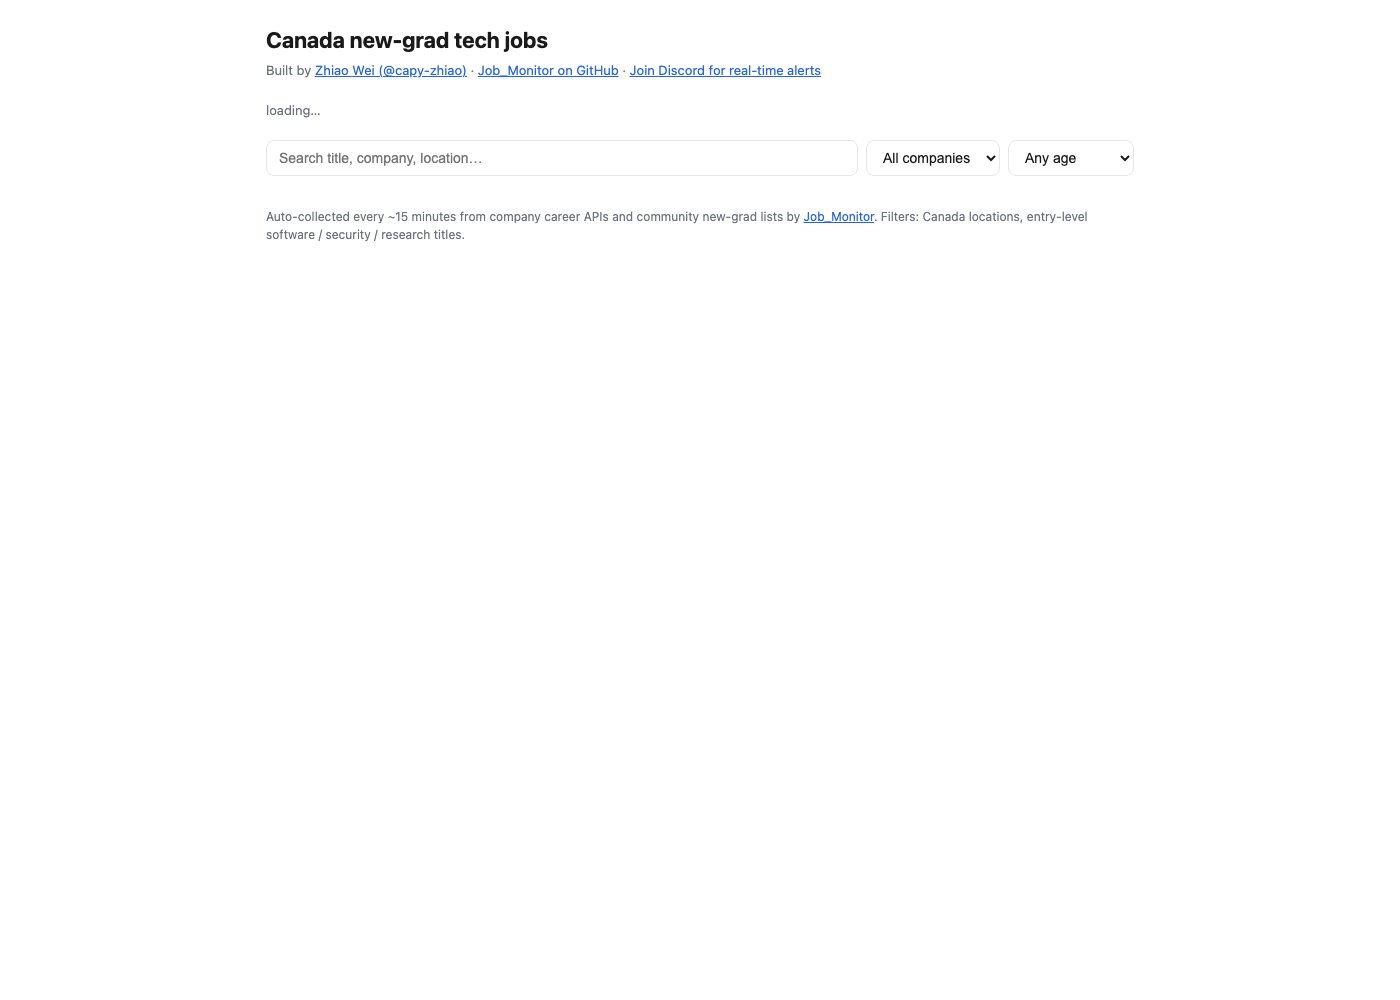
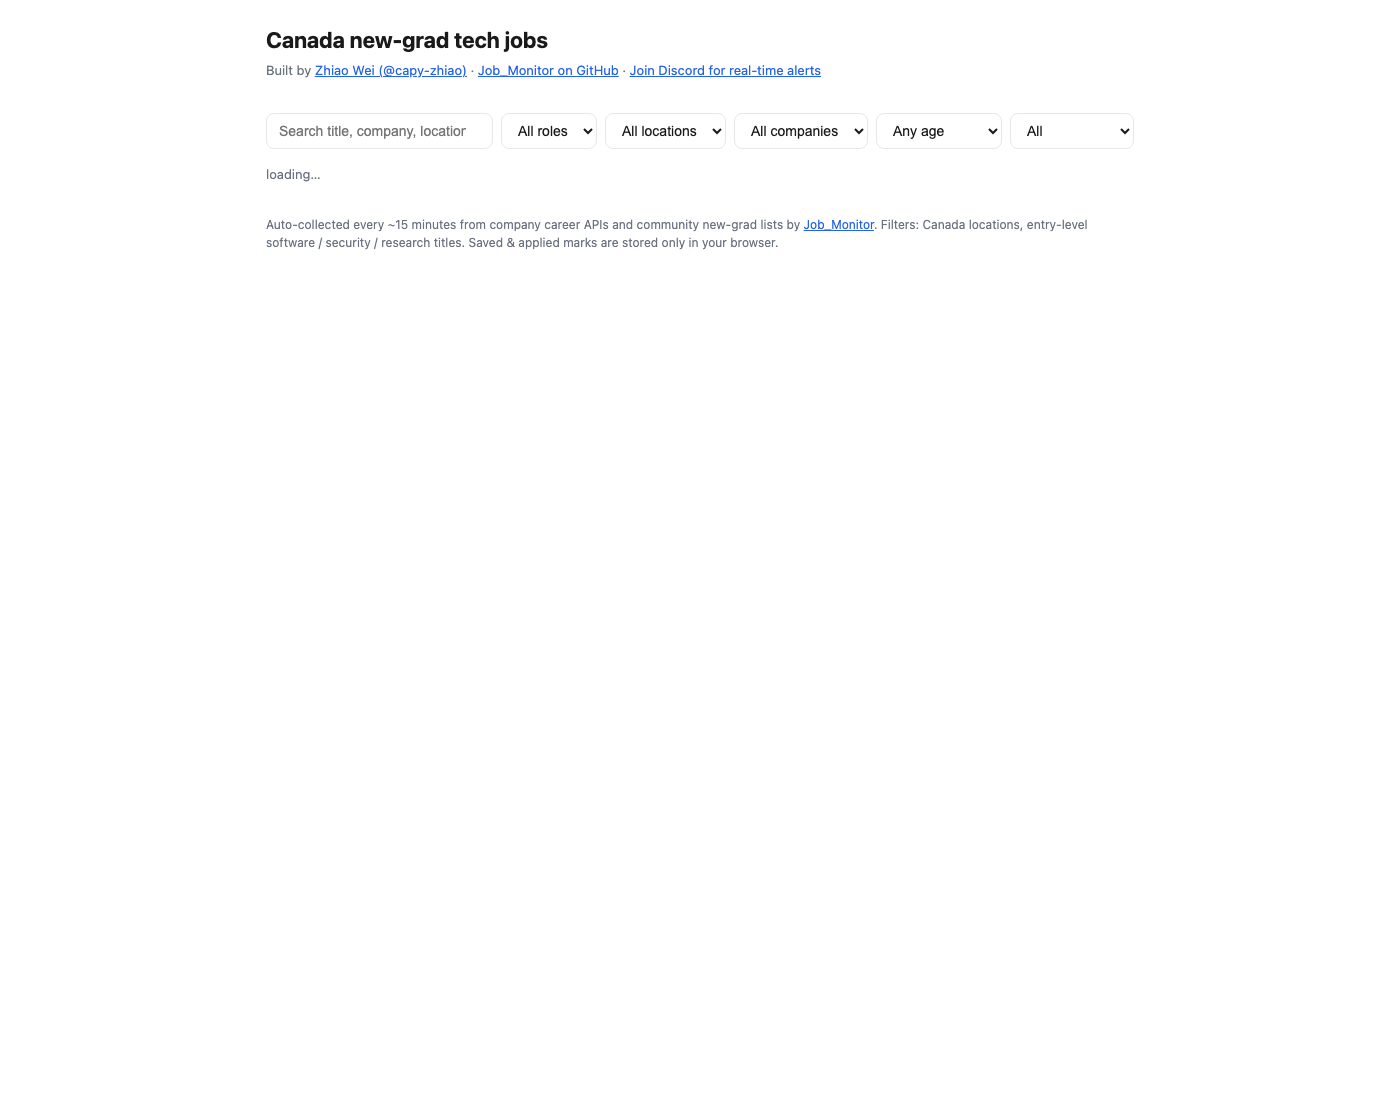
Add open-roles trend chart to jobs page
Pipeline appends a daily snapshot to docs/history.json (total + per-category,
90-day cap); page renders an area chart with % change. Seeded 15 days of real
history from first_seen dates. Workflow commits history.json each run.

Changed region(s): [[0.1843, 0.155, 0.7679, 0.248], [0.1843, 0.031, 0.6143, 0.124], [0.645, 0.093, 0.6757, 0.124]]

diff --git a/docs/index.html b/docs/index.html
@@ -72,6 +72,15 @@
 
 <div class="stats" id="stats"></div>
 
+<div id="trend" hidden style="background:var(--card);border:1px solid var(--border);border-radius:12px;padding:16px 18px;margin-bottom:16px">
+  <div style="display:flex;justify-content:space-between;align-items:baseline;margin-bottom:12px">
+    <div style="font-weight:600;font-size:15px">Open roles over time</div>
+    <div style="font-size:12px;color:var(--muted)" id="trend-sub"></div>
+  </div>
+  <svg id="trend-svg" width="100%" viewBox="0 0 640 180" preserveAspectRatio="none" style="display:block"></svg>
+  <div style="display:flex;justify-content:space-between;font-size:11px;color:var(--muted);margin-top:6px" id="trend-axis"></div>
+</div>
+
 <div class="controls">
   <input id="q" type="search" placeholder="Search title, company, location…">
   <select id="category"><option value="">All roles</option></select>
@@ -218,6 +227,38 @@ fetch("jobs.json?" + Date.now())
   .catch(() => { $("meta").textContent = "failed to load jobs.json"; });
 
 FILTERS.forEach(f => $(f).addEventListener("input", render));
+
+// Trend chart — built from the daily history.json snapshots (cold-starts as a
+// short line and fills in as days accrue).
+function renderTrend(history) {
+  if (!Array.isArray(history) || history.length < 2) return;  // need ≥2 days
+  const W = 640, H = 180, pad = 10;
+  const vals = history.map(h => h.total);
+  const min = Math.min(...vals), max = Math.max(...vals), span = max - min || 1;
+  const x = i => (history.length === 1 ? W : (i / (history.length - 1)) * W);
+  const y = v => pad + (1 - (v - min) / span) * (H - 2 * pad);
+  const pts = history.map((h, i) => `${x(i).toFixed(1)},${y(h.total).toFixed(1)}`);
+  const grid = [pad, H / 2, H - pad].map(gy =>
+    `<line x1="0" y1="${gy}" x2="${W}" y2="${gy}" stroke="var(--border)" stroke-width="1"/>`).join("");
+  const area = `<polygon points="0,${H} ${pts.join(" ")} ${W},${H}" fill="var(--accent)" fill-opacity="0.10"/>`;
+  const line = `<polyline points="${pts.join(" ")}" fill="none" stroke="var(--accent)" stroke-width="2.2" stroke-linejoin="round" stroke-linecap="round"/>`;
+  const last = pts[pts.length - 1].split(",");
+  const dot = `<circle cx="${last[0]}" cy="${last[1]}" r="3.5" fill="var(--accent)"/>`;
+  $("trend-svg").innerHTML = grid + area + line + dot;
+
+  const first = history[0].total, cur = history[history.length - 1].total;
+  const pct = first ? Math.round(((cur - first) / first) * 100) : 0;
+  const arrow = pct > 0 ? "▲" : pct < 0 ? "▼" : "▬";
+  const col = pct > 0 ? "var(--new-fg)" : pct < 0 ? "#a32d2d" : "var(--muted)";
+  $("trend-sub").innerHTML = `${history.length} days · <span style="color:${col}">${arrow} ${Math.abs(pct)}%</span>`;
+  $("trend-axis").innerHTML = `<span>${history[0].date}</span><span>${history[history.length - 1].date}</span>`;
+  $("trend").hidden = false;
+}
+
+fetch("history.json?" + Date.now())
+  .then(r => r.ok ? r.json() : [])
+  .then(renderTrend)
+  .catch(() => {});
 </script>
 </body>
 </html>

diff --git a/jobmonitor/cli.py b/jobmonitor/cli.py
@@ -156,6 +156,25 @@ def emit_jobs_json(path, matched, config_path=None):
         json.dump(payload, f, indent=1, ensure_ascii=False)
     with open(sidecar, "w") as f:
         json.dump(first_seen, f, indent=0, sort_keys=True)
+
+    # Daily history snapshot for the trend chart: one entry per day, upserted
+    # so multiple same-day runs keep only the latest count. Kept to ~90 days.
+    hist_path = os.path.join(os.path.dirname(os.path.abspath(path)), "history.json")
+    by_cat = {}
+    for j in jobs:
+        c = categorize(j.title)
+        by_cat[c] = by_cat.get(c, 0) + 1
+    try:
+        with open(hist_path) as f:
+            history = json.load(f)
+    except (OSError, ValueError):
+        history = []
+    history = [h for h in history if h.get("date") != today]
+    history.append({"date": today, "total": len(jobs), "by": by_cat})
+    history = sorted(history, key=lambda h: h["date"])[-90:]
+    with open(hist_path, "w") as f:
+        json.dump(history, f, indent=0, ensure_ascii=False)
+
     print(f"emitted {len(jobs)} jobs to {path}")
 
 
